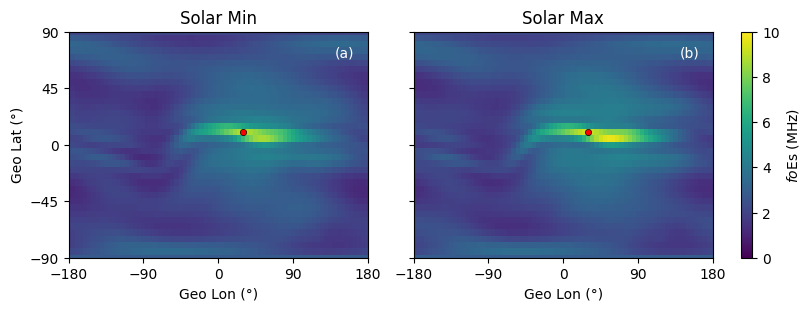
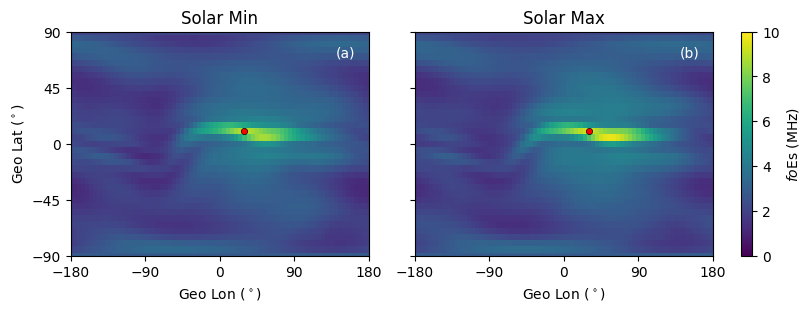
Change deg string

diff --git a/docs/tutorials/Daily_parameters.py b/docs/tutorials/Daily_parameters.py
@@ -115,8 +115,8 @@ plt.ylim([-90, 90])
 plt.xticks(np.arange(-180, 180 + 45, 90))
 plt.yticks(np.arange(-90, 90 + 45, 45))
 ax.set_facecolor('grey')
-ax.set_xlabel('Geo Lon (°)')
-ax.set_ylabel('Geo Lat (°)')
+ax.set_xlabel(r'Geo Lon ($^\circ$)')
+ax.set_ylabel(r'Geo Lat ($^\circ$)')
 z = np.reshape(F2['fo'][ind_time, :], alon_2d.shape)
 mesh = ax.pcolormesh(alon_2d, alat_2d, z)
 ax.scatter(sun['lon'][ind_time], sun['lat'][ind_time],
@@ -137,8 +137,8 @@ plt.ylim([-90, 90])
 plt.xticks(np.arange(-180, 180 + 45, 90))
 plt.yticks(np.arange(-90, 90 + 45, 45))
 ax.set_facecolor('grey')
-ax.set_xlabel('Geo Lon (°)')
-ax.set_ylabel('Geo Lat (°)')
+ax.set_xlabel(r'Geo Lon ($^\circ$)')
+ax.set_ylabel(r'Geo Lat ($^\circ$)')
 z = np.reshape(F2['hm'][ind_time, :], alon_2d.shape)
 mesh = ax.pcolormesh(alon_2d, alat_2d, z)
 ax.scatter(sun['lon'][ind_time], sun['lat'][ind_time],
@@ -158,8 +158,8 @@ plt.ylim([-90, 90])
 plt.xticks(np.arange(-180, 180 + 45, 90))
 plt.yticks(np.arange(-90, 90 + 45, 45))
 ax.set_facecolor('grey')
-ax.set_xlabel('Geo Lon (°)')
-ax.set_ylabel('Geo Lat (°)')
+ax.set_xlabel(r'Geo Lon ($^\circ$)')
+ax.set_ylabel(r'Geo Lat ($^\circ$)')
 z = np.reshape(F2['B0'][ind_time, :], alon_2d.shape)
 mesh = ax.pcolormesh(alon_2d, alat_2d, z)
 ax.scatter(sun['lon'][ind_time], sun['lat'][ind_time],
@@ -179,8 +179,8 @@ plt.ylim([-90, 90])
 plt.xticks(np.arange(-180, 180 + 45, 90))
 plt.yticks(np.arange(-90, 90 + 45, 45))
 ax.set_facecolor('grey')
-ax.set_xlabel('Geo Lon (°)')
-ax.set_ylabel('Geo Lat (°)')
+ax.set_xlabel(r'Geo Lon ($^\circ$)')
+ax.set_ylabel(r'Geo Lat ($^\circ$)')
 z = np.reshape(F2['B1'][ind_time, :], alon_2d.shape)
 mesh = ax.pcolormesh(alon_2d, alat_2d, z)
 ax.scatter(sun['lon'][ind_time], sun['lat'][ind_time],
@@ -201,8 +201,8 @@ plt.ylim([-90, 90])
 plt.xticks(np.arange(-180, 180 + 45, 90))
 plt.yticks(np.arange(-90, 90 + 45, 45))
 ax.set_facecolor('grey')
-ax.set_xlabel('Geo Lon (°)')
-ax.set_ylabel('Geo Lat (°)')
+ax.set_xlabel(r'Geo Lon ($^\circ$)')
+ax.set_ylabel(r'Geo Lat ($^\circ$)')
 z = np.reshape(F2['B_top'][ind_time, :], alon_2d.shape)
 mesh = ax.pcolormesh(alon_2d, alat_2d, z)
 ax.scatter(sun['lon'][ind_time], sun['lat'][ind_time],
@@ -222,8 +222,8 @@ plt.ylim([-90, 90])
 plt.xticks(np.arange(-180, 180 + 45, 90))
 plt.yticks(np.arange(-90, 90 + 45, 45))
 ax.set_facecolor('grey')
-ax.set_xlabel('Geo Lon (°)')
-ax.set_ylabel('Geo Lat (°)')
+ax.set_xlabel(r'Geo Lon ($^\circ$)')
+ax.set_ylabel(r'Geo Lat ($^\circ$)')
 z = np.reshape(F1['P'][ind_time, :], alon_2d.shape)
 mesh = ax.pcolormesh(alon_2d, alat_2d, z)
 ax.scatter(sun['lon'][ind_time], sun['lat'][ind_time],
@@ -244,8 +244,8 @@ plt.ylim([-90, 90])
 plt.xticks(np.arange(-180, 180 + 45, 90))
 plt.yticks(np.arange(-90, 90 + 45, 45))
 ax.set_facecolor('grey')
-ax.set_xlabel('Geo Lon (°)')
-ax.set_ylabel('Geo Lat (°)')
+ax.set_xlabel(r'Geo Lon ($^\circ$)')
+ax.set_ylabel(r'Geo Lat ($^\circ$)')
 z = np.reshape(F1['B_bot'][ind_time, :], alon_2d.shape)
 mesh = ax.pcolormesh(alon_2d, alat_2d, z)
 ax.scatter(sun['lon'][ind_time], sun['lat'][ind_time],
@@ -266,8 +266,8 @@ plt.ylim([-90, 90])
 plt.xticks(np.arange(-180, 180 + 45, 90))
 plt.yticks(np.arange(-90, 90 + 45, 45))
 ax.set_facecolor('grey')
-ax.set_xlabel('Geo Lon (°)')
-ax.set_ylabel('Geo Lat (°)')
+ax.set_xlabel(r'Geo Lon ($^\circ$)')
+ax.set_ylabel(r'Geo Lat ($^\circ$)')
 z = np.reshape(F1['fo'][ind_time, :], alon_2d.shape)
 mesh = ax.pcolormesh(alon_2d, alat_2d, z)
 ax.scatter(sun['lon'][ind_time], sun['lat'][ind_time],
@@ -288,8 +288,8 @@ plt.ylim([-90, 90])
 plt.xticks(np.arange(-180, 180 + 45, 90))
 plt.yticks(np.arange(-90, 90 + 45, 45))
 ax.set_facecolor('grey')
-ax.set_xlabel('Geo Lon (°)')
-ax.set_ylabel('Geo Lat (°)')
+ax.set_xlabel(r'Geo Lon ($^\circ$)')
+ax.set_ylabel(r'Geo Lat ($^\circ$)')
 z = np.reshape(F1['hm'][ind_time, :], alon_2d.shape)
 mesh = ax.pcolormesh(alon_2d, alat_2d, z)
 ax.scatter(sun['lon'][ind_time], sun['lat'][ind_time],
@@ -309,8 +309,8 @@ plt.ylim([-90, 90])
 plt.xticks(np.arange(-180, 180 + 45, 90))
 plt.yticks(np.arange(-90, 90 + 45, 45))
 ax.set_facecolor('grey')
-ax.set_xlabel('Geo Lon (°)')
-ax.set_ylabel('Geo Lat (°)')
+ax.set_xlabel(r'Geo Lon ($^\circ$)')
+ax.set_ylabel(r'Geo Lat ($^\circ$)')
 z = np.reshape(E['fo'][ind_time, :], alon_2d.shape)
 mesh = ax.pcolormesh(alon_2d, alat_2d, z)
 ax.scatter(sun['lon'][ind_time], sun['lat'][ind_time],
@@ -330,8 +330,8 @@ plt.ylim([-90, 90])
 plt.xticks(np.arange(-180, 180 + 45, 90))
 plt.yticks(np.arange(-90, 90 + 45, 45))
 ax.set_facecolor('grey')
-ax.set_xlabel('Geo Lon (°)')
-ax.set_ylabel('Geo Lat (°)')
+ax.set_xlabel(r'Geo Lon ($^\circ$)')
+ax.set_ylabel(r'Geo Lat ($^\circ$)')
 z = np.reshape(Es['fo'][ind_time, :], alon_2d.shape)
 mesh = ax.pcolormesh(alon_2d, alat_2d, z)
 ax.scatter(sun['lon'][ind_time], sun['lat'][ind_time],
@@ -354,8 +354,8 @@ plt.ylim([-90, 90])
 plt.xticks(np.arange(-180, 180 + 45, 90))
 plt.yticks(np.arange(-90, 90 + 45, 45))
 ax.set_facecolor('grey')
-ax.set_xlabel('Geo Lon (°)')
-ax.set_ylabel('Geo Lat (°)')
+ax.set_xlabel(r'Geo Lon ($^\circ$)')
+ax.set_ylabel(r'Geo Lat ($^\circ$)')
 z = np.reshape(TEC[ind_time, :], alon_2d.shape)
 mesh = ax.pcolormesh(alon_2d, alat_2d, z)
 ax.scatter(sun['lon'][ind_time], sun['lat'][ind_time],

diff --git a/docs/tutorials/Mean_monthly_parameters.py b/docs/tutorials/Mean_monthly_parameters.py
@@ -111,8 +111,8 @@ abc = ['(a)', '(b)']
 atitle = ['Solar Min', 'Solar Max']
 for isol in range(0, 2):
     ax[isol].set_facecolor('grey')
-    ax[isol].set_xlabel('Geo Lon (°)')
-    ax[isol].set_ylabel('Geo Lat (°)')
+    ax[isol].set_xlabel(r'Geo Lon ($^\circ$)')
+    ax[isol].set_ylabel(r'Geo Lat ($^\circ$)')
     if isol == 1:
         ax[1].set_ylabel(' ')
     z = np.reshape(F2['fo'][ind_time, ind_grid, isol], alon_2d.shape)
@@ -140,8 +140,8 @@ abc = ['(a)', '(b)']
 atitle = ['Solar Min', 'Solar Max']
 for isol in range(0, 2):
     ax[isol].set_facecolor('grey')
-    ax[isol].set_xlabel('Geo Lon (°)')
-    ax[isol].set_ylabel('Geo Lat (°)')
+    ax[isol].set_xlabel(r'Geo Lon ($^\circ$)')
+    ax[isol].set_ylabel(r'Geo Lat ($^\circ$)')
     if isol == 1:
         ax[1].set_ylabel(' ')
     z = np.reshape(F2['hm'][ind_time, ind_grid, isol], alon_2d.shape)
@@ -169,8 +169,8 @@ abc = ['(a)', '(b)']
 atitle = ['Solar Min', 'Solar Max']
 for isol in range(0, 2):
     ax[isol].set_facecolor('grey')
-    ax[isol].set_xlabel('Geo Lon (°)')
-    ax[isol].set_ylabel('Geo Lat (°)')
+    ax[isol].set_xlabel(r'Geo Lon ($^\circ$)')
+    ax[isol].set_ylabel(r'Geo Lat ($^\circ$)')
     if isol == 1:
         ax[1].set_ylabel(' ')
     z = np.reshape(F2['B0'][ind_time, ind_grid, isol], alon_2d.shape)
@@ -198,8 +198,8 @@ abc = ['(a)', '(b)']
 atitle = ['Solar Min', 'Solar Max']
 for isol in range(0, 2):
     ax[isol].set_facecolor('grey')
-    ax[isol].set_xlabel('Geo Lon (°)')
-    ax[isol].set_ylabel('Geo Lat (°)')
+    ax[isol].set_xlabel(r'Geo Lon ($^\circ$)')
+    ax[isol].set_ylabel(r'Geo Lat ($^\circ$)')
     if isol == 1:
         ax[1].set_ylabel(' ')
     z = np.reshape(F2['B1'][ind_time, ind_grid, isol], alon_2d.shape)
@@ -227,8 +227,8 @@ abc = ['(a)', '(b)']
 atitle = ['Solar Min', 'Solar Max']
 for isol in range(0, 2):
     ax[isol].set_facecolor('grey')
-    ax[isol].set_xlabel('Geo Lon (°)')
-    ax[isol].set_ylabel('Geo Lat (°)')
+    ax[isol].set_xlabel(r'Geo Lon ($^\circ$)')
+    ax[isol].set_ylabel(r'Geo Lat ($^\circ$)')
     if isol == 1:
         ax[1].set_ylabel(' ')
     z = np.reshape(F2['B_top'][ind_time, ind_grid, isol], alon_2d.shape)
@@ -255,8 +255,8 @@ abc = ['(a)', '(b)']
 atitle = ['Solar Min', 'Solar Max']
 for isol in range(0, 2):
     ax[isol].set_facecolor('grey')
-    ax[isol].set_xlabel('Geo Lon (°)')
-    ax[isol].set_ylabel('Geo Lat (°)')
+    ax[isol].set_xlabel(r'Geo Lon ($^\circ$)')
+    ax[isol].set_ylabel(r'Geo Lat ($^\circ$)')
     if isol == 1:
         ax[1].set_ylabel(' ')
     z = np.reshape(E['fo'][ind_time, ind_grid, isol], alon_2d.shape)
@@ -283,8 +283,8 @@ abc = ['(a)', '(b)']
 atitle = ['Solar Min', 'Solar Max']
 for isol in range(0, 2):
     ax[isol].set_facecolor('grey')
-    ax[isol].set_xlabel('Geo Lon (°)')
-    ax[isol].set_ylabel('Geo Lat (°)')
+    ax[isol].set_xlabel(r'Geo Lon ($^\circ$)')
+    ax[isol].set_ylabel(r'Geo Lat ($^\circ$)')
     if isol == 1:
         ax[1].set_ylabel(' ')
     z = np.reshape(Es['fo'][ind_time, ind_grid, isol], alon_2d.shape)

diff --git a/docs/tutorials/Coordinate_Transformation.py b/docs/tutorials/Coordinate_Transformation.py
@@ -100,8 +100,8 @@ ax_plot.set_xlim([0, 360])
 ax_plot.set_ylim([-90, 90])
 ax_plot.set_xticks(np.arange(0, 360 + 45, 45))
 ax_plot.set_yticks(np.arange(-90, 90 + 45, 45))
-ax_plot.set_xlabel('Geo Lon (°)')
-ax_plot.set_ylabel('Geo Lat (°)')
+ax_plot.set_xlabel(r'Geo Lon ($^\circ$)')
+ax_plot.set_ylabel(r'Geo Lat ($^\circ$)')
 
 # Define the QD grid that you wish to be transformed to the Geo cooedinates
 ddeg = 1
